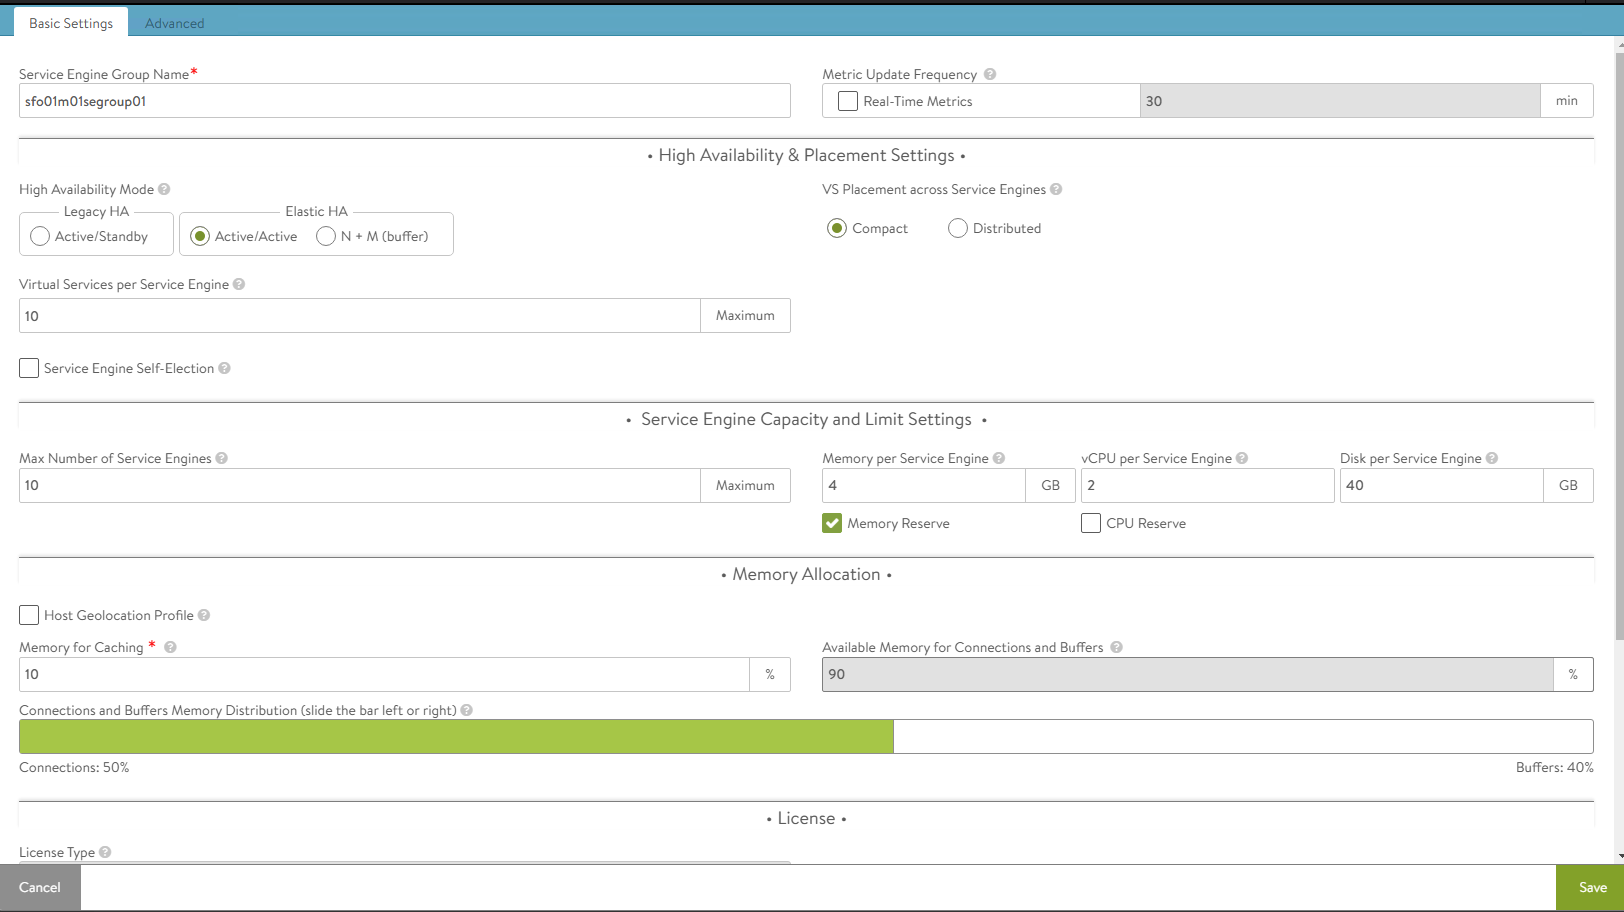
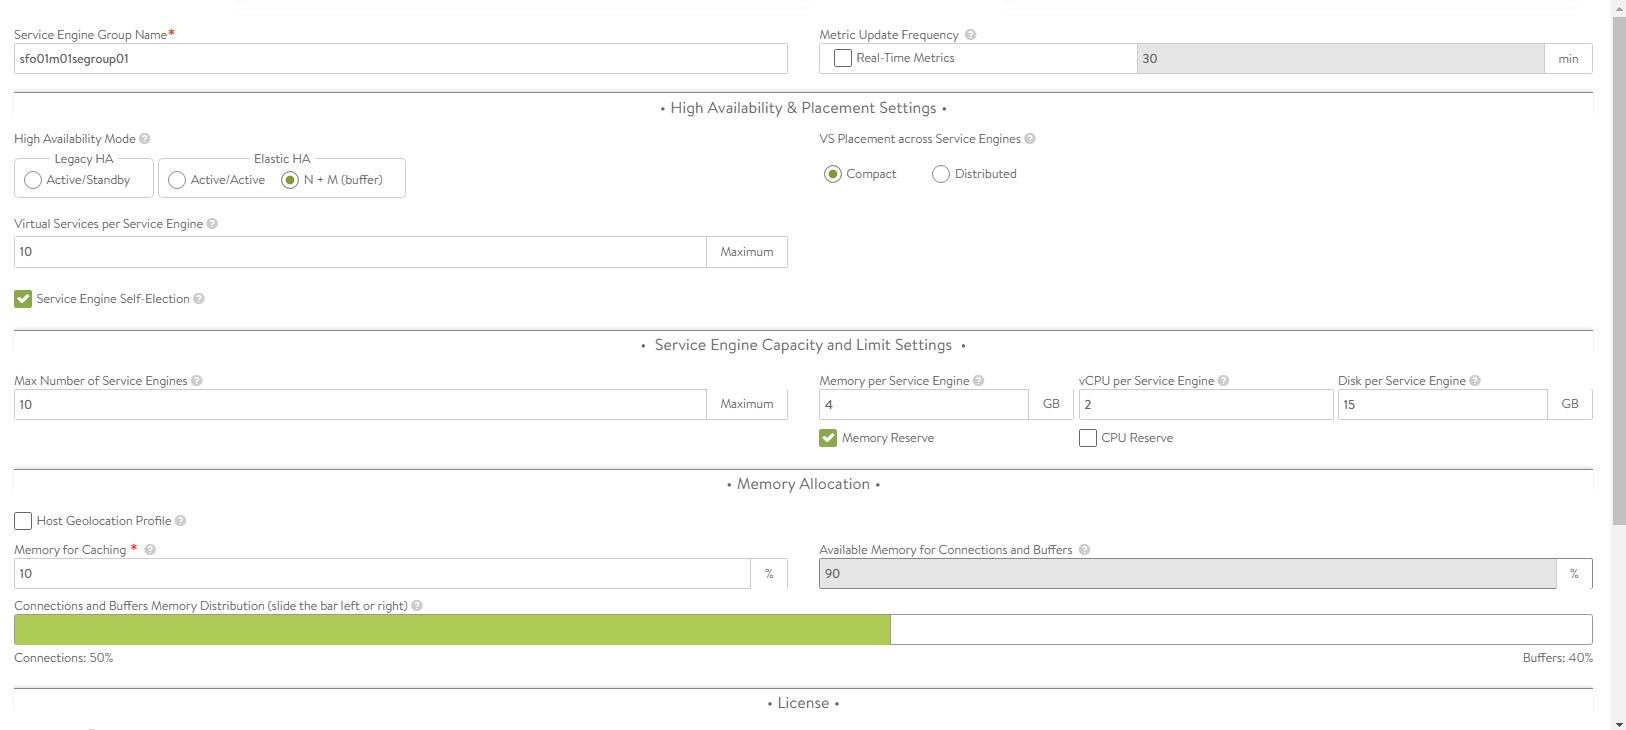
avi_version_update

diff --git a/src/deployment-guides/tko-on-vsphere-nsxt.md b/src/deployment-guides/tko-on-vsphere-nsxt.md
@@ -471,7 +471,7 @@ The following components are created in NSX Advanced Load Balancer.
 
     | Parameter | Value |
     | --- | --- |
-    | High availability mode | Active/Active |
+    | High availability mode | N + M |
     | VS Placement | Compact |
     | Memory per Service Engine | 4 |
     | vCPU per Service Engine | 2 |
